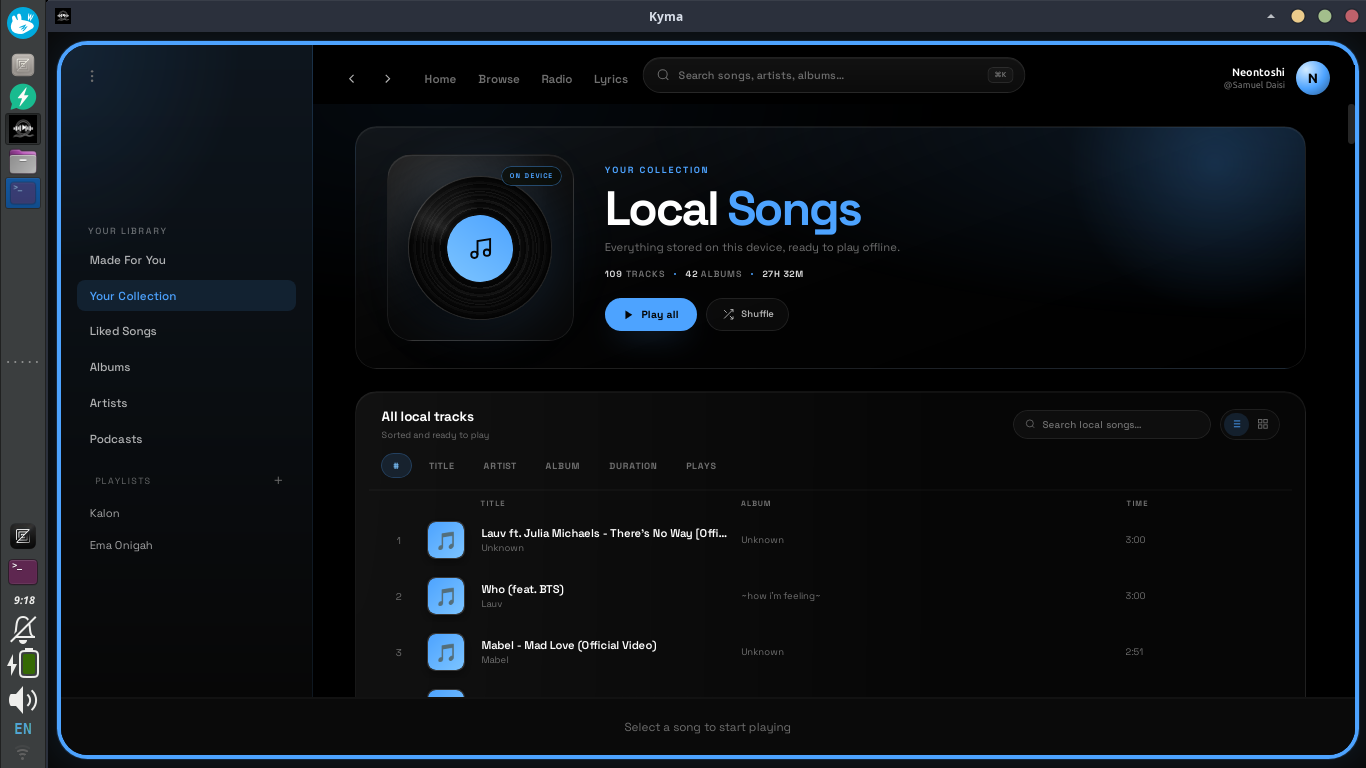
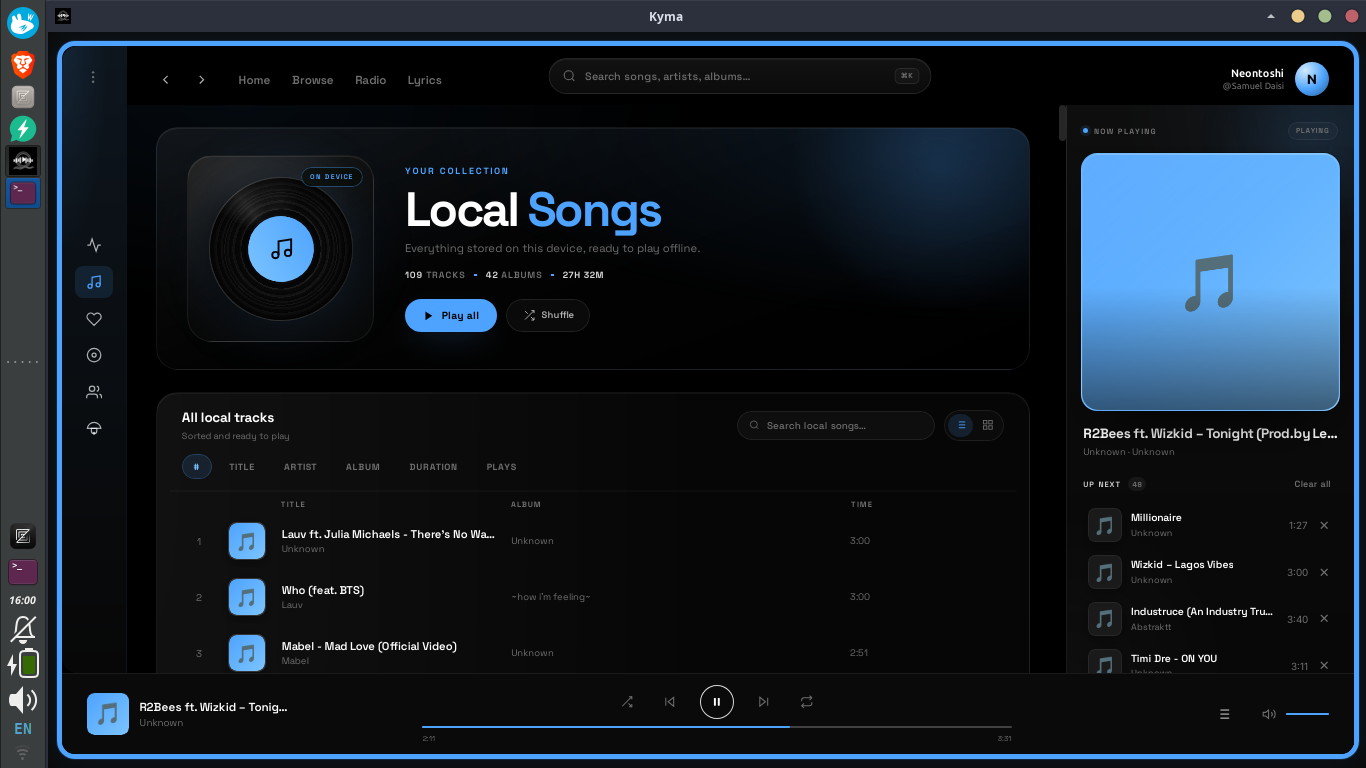
Layout reset

diff --git a/Kyma_Frontend/src/styles/components/Sidebar.css b/Kyma_Frontend/src/styles/components/Sidebar.css
@@ -14,8 +14,8 @@
     position: relative;
     z-index: 20;
     transition:
-        width 0.28s cubic-bezier(0, 0, 0.2, 1),
-        min-width 0.28s cubic-bezier(0, 0, 0.2, 1);
+        width 0.32s cubic-bezier(0.32, 0.72, 0, 1),
+        min-width 0.32s cubic-bezier(0.32, 0.72, 0, 1);
 }
 
 .logo {
@@ -50,7 +50,9 @@
     font-size: 14px;
     font-weight: 500;
     color: var(--text2);
-    transition: all var(--anim-normal) var(--anim-easing);
+    transition:
+        background-color var(--anim-normal) var(--anim-easing),
+        color var(--anim-normal) var(--anim-easing);
     user-select: none;
 }
 
@@ -68,9 +70,6 @@
     width: 18px;
     height: 18px;
     flex-shrink: 0;
-    transition:
-        width 0.25s ease,
-        height 0.25s ease;
 }
 
 .nav-badge {
@@ -313,20 +312,11 @@
 .sidebar.sidebar--collapsed {
     width: 72px;
     min-width: 72px;
-    transition:
-        width 0.22s cubic-bezier(0.4, 0, 1, 1),
-        min-width 0.22s cubic-bezier(0.4, 0, 1, 1);
 }
 
 .sidebar.sidebar--collapsed .logo {
     padding: var(--space-lg) 12px !important;
     justify-content: center !important;
-}
-
-.sidebar.sidebar--collapsed .nav-item {
-    justify-content: center !important;
-    padding: var(--space-sm) 8px !important;
-    gap: 0 !important;
 }
 
 .sidebar.sidebar--collapsed .user-profile {
@@ -348,6 +338,9 @@
 .sidebar {
     background-color: #070707;
     border-right: 1px solid rgba(var(--accent-rgb), 0.1);
+    border-top-left-radius: 17px;
+    border-bottom-left-radius: 17px;
+
 }
 
 .sidebar::before {
@@ -356,7 +349,8 @@
     inset: 0;
     z-index: -1;
     pointer-events: none;
-    transform: translateZ(0);
+    border-top-left-radius: inherit;
+    border-bottom-left-radius: inherit;
     background:
         radial-gradient(120% 55% at 0% 0%, rgba(var(--accent-rgb), 0.11), transparent 60%),
         linear-gradient(180deg, color-mix(in srgb, var(--accent) 9%, #070707) 0%, color-mix(in srgb, var(--accent) 4%, #070707) 55%, #070707 100%);
@@ -405,10 +399,6 @@
     font-weight: 500;
     color: rgba(255,255,255, 0.68);
     letter-spacing: 0.01em;
-}
-
-.sidebar .nav-item svg {
-    display: none;
 }
 
 .sidebar.sidebar--collapsed .nav-item svg {
@@ -918,12 +908,12 @@
 }
 
 .sidebar .nav-section {
-    padding: 12px 18px 6px;
+    padding: 12px 14px 6px;
 }
 
 .sidebar .nav-item {
     margin-bottom: 5px;
-    padding: 9px 14px;
+    padding: 9px 13px;
     border-radius: 9px;
 }
 
@@ -942,20 +932,6 @@
 
 .sidebar .playlist-list {
     padding: 0 2px 8px;
-}
-
-.sidebar--collapsed .sidebar .nav-section,
-.sidebar.sidebar--collapsed .nav-section {
-    padding-left: 10px;
-    padding-right: 10px;
-}
-
-.sidebar.sidebar--collapsed .nav-item {
-    margin-bottom: 6px;
-}
-
-.sidebar.sidebar--collapsed .nav-item:last-child {
-    margin-bottom: 0;
 }
 
 @media (max-width: 768px) {

diff --git a/Kyma_Frontend/src/presentation/components/Sidebar/Sidebar.tsx b/Kyma_Frontend/src/presentation/components/Sidebar/Sidebar.tsx
@@ -66,14 +66,13 @@ const MOODS = [
 ];
 
 const slideStyle = (collapsed: boolean): React.CSSProperties => ({
-  maxWidth: collapsed ? 0 : "200px",
   opacity: collapsed ? 0 : 1,
-  overflow: "hidden",
+  visibility: collapsed ? "hidden" : "visible",
   whiteSpace: "nowrap",
   flexShrink: 0,
   transition: collapsed
-    ? "max-width 0.18s cubic-bezier(0.4, 0, 1, 1), opacity 0.12s ease"
-    : "max-width 0.28s cubic-bezier(0, 0, 0.2, 1) 0.05s, opacity 0.2s ease 0.1s",
+    ? "opacity 0.14s ease, visibility 0s linear 0.14s"
+    : "opacity 0.22s ease 0.1s, visibility 0s",
 });
 
 const Sidebar: React.FC<SidebarProps> = ({ className, onClose }) => {
@@ -229,11 +228,6 @@ const Sidebar: React.FC<SidebarProps> = ({ className, onClose }) => {
                 key={item.path}
                 className={`nav-item ${location.pathname === item.path ? "active" : ""}`}
                 onClick={() => handleNavigate(item.path, item.label)}
-                style={{
-                  justifyContent: sidebarCollapsed ? "center" : undefined,
-                  padding: sidebarCollapsed ? "12px 8px" : undefined,
-                  gap: sidebarCollapsed ? 0 : undefined,
-                }}
                 data-tooltip={sidebarCollapsed ? item.label : undefined}
                 aria-label={item.label}
               >
@@ -244,8 +238,11 @@ const Sidebar: React.FC<SidebarProps> = ({ className, onClose }) => {
           })}
         </div>
 
-        {!sidebarCollapsed && (
-          <div className="nav-section">
+          <div
+            className="nav-section"
+            style={slideStyle(sidebarCollapsed)}
+            aria-hidden={sidebarCollapsed}
+            >
             <div
               style={{
                 display: "flex",
@@ -310,7 +307,6 @@ const Sidebar: React.FC<SidebarProps> = ({ className, onClose }) => {
               ))}
             </div>
           </div>
-        )}
       </div>
 
       {showCreateModal && (

diff --git a/Kyma_Frontend/src/styles/layout.css b/Kyma_Frontend/src/styles/layout.css
@@ -194,14 +194,16 @@ body {
     flex-direction: column;
     height: calc(100dvh - 20px);
     margin: 10px;
-    border: 5px solid var(--accent);
-    border-radius: 34px;
+    border: 6px solid var(--accent);
+    border-radius: 20px;
     overflow: hidden;
     background: #000;
     box-shadow:
         0 0 0 1px rgba(var(--accent-rgb), 0.15),
         0 0 45px rgba(var(--accent-rgb), 0.12);
 }
+
+
 
 .app-body {
     display: flex;
